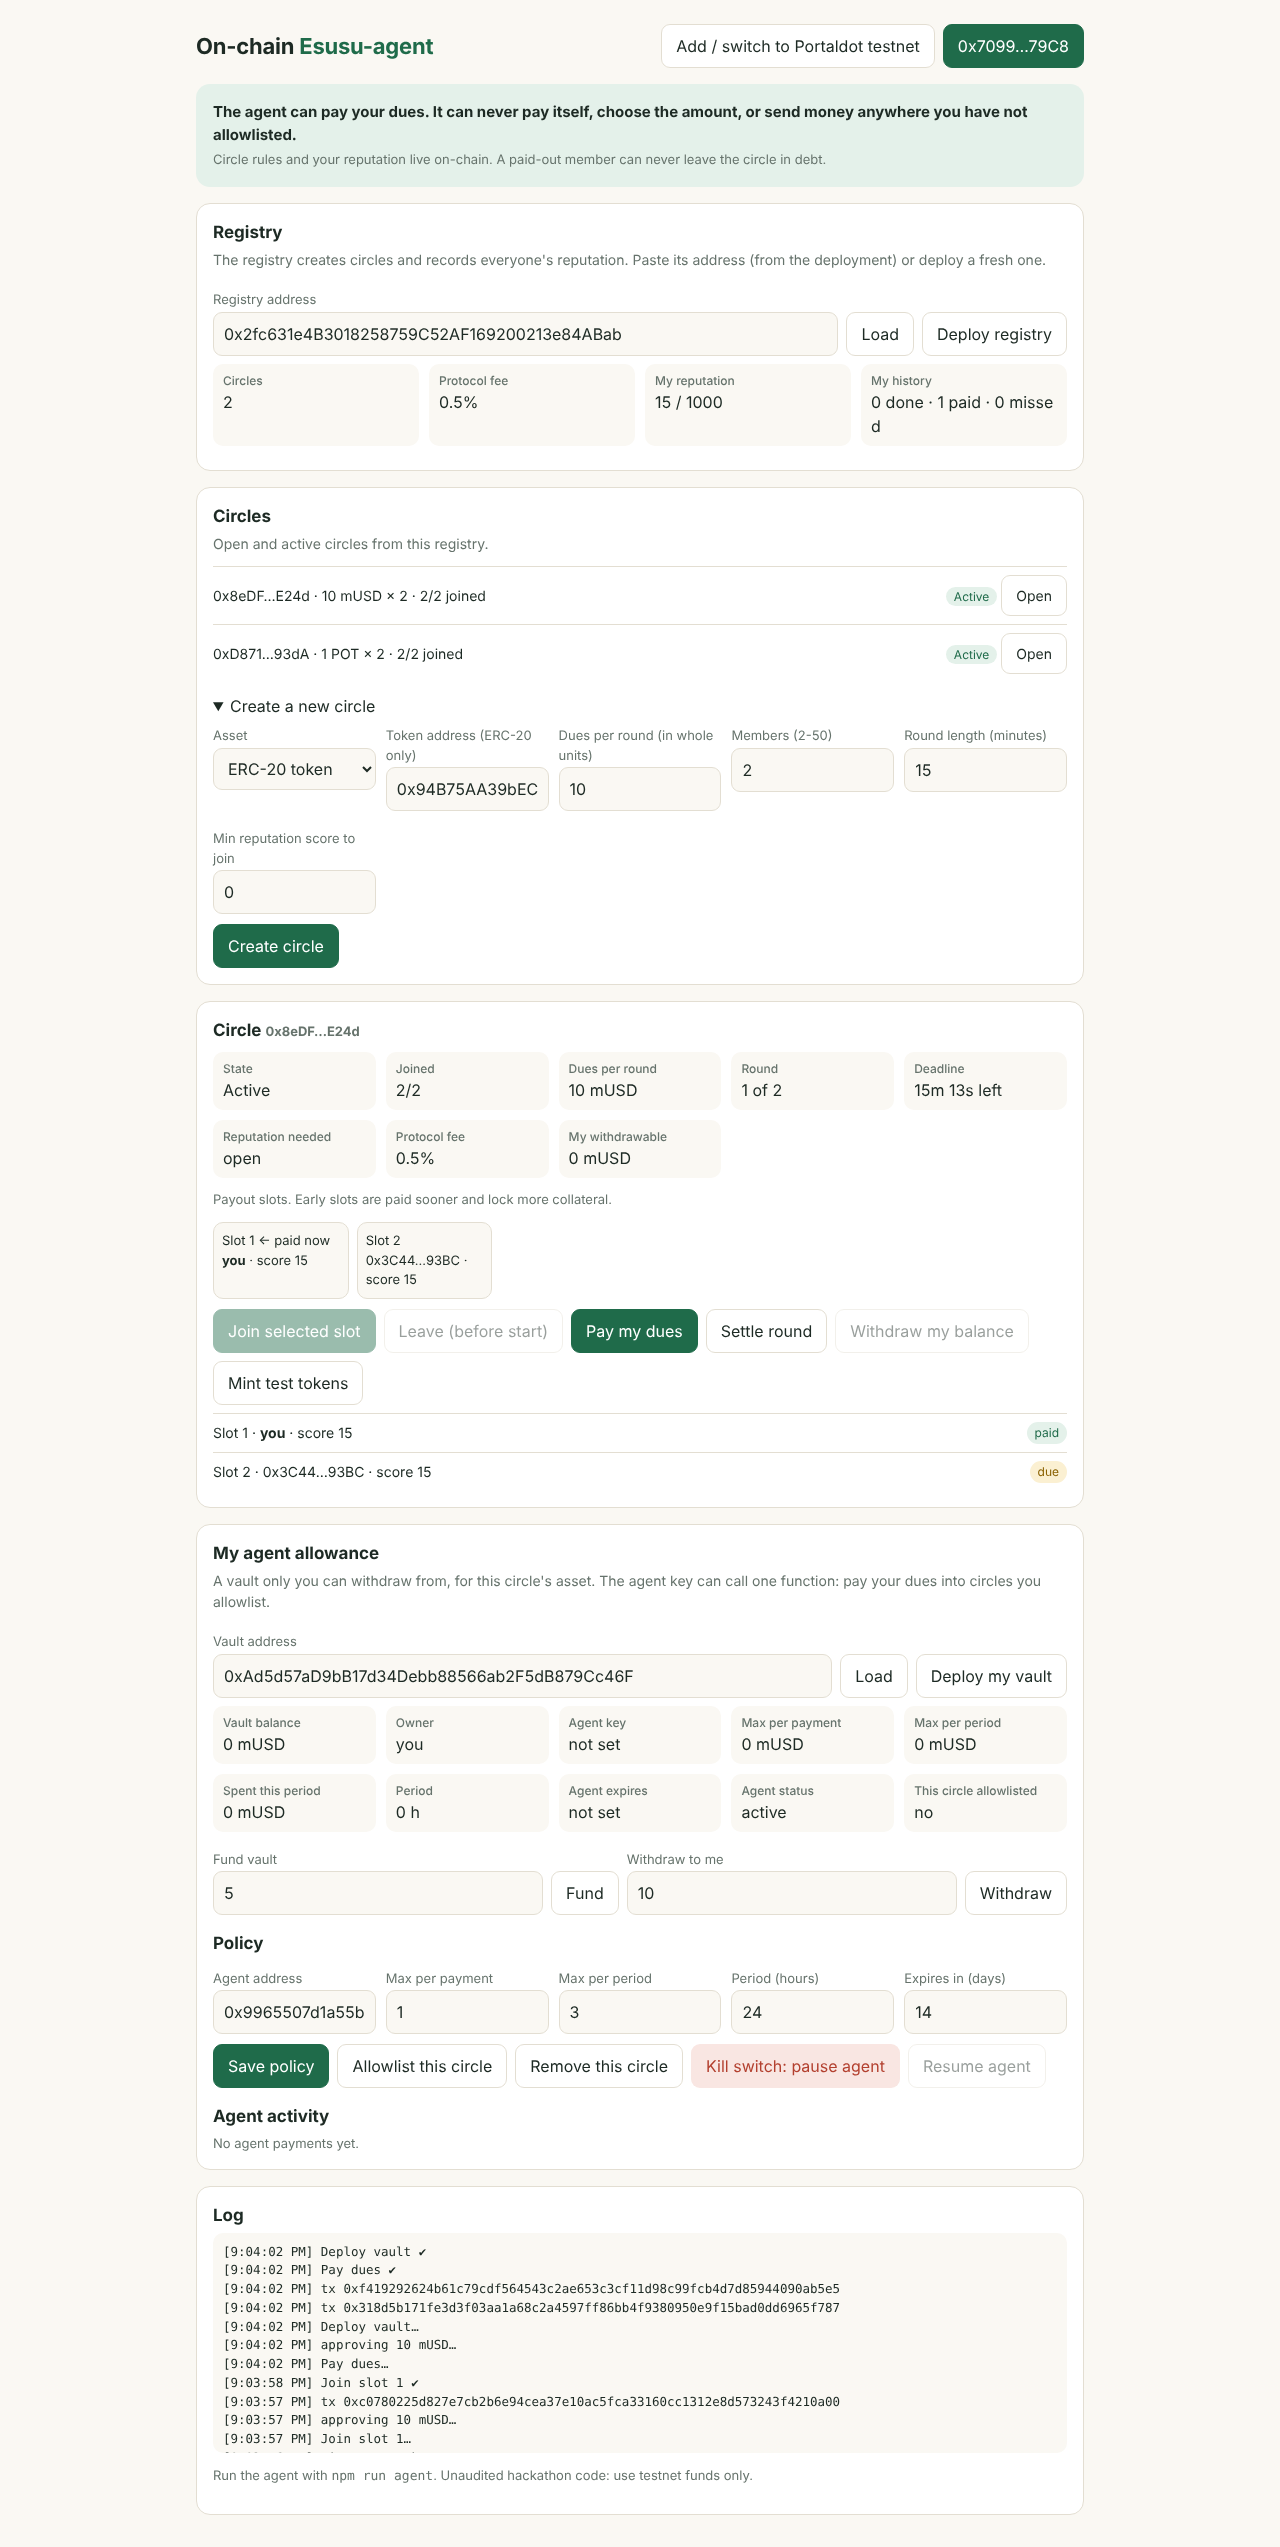
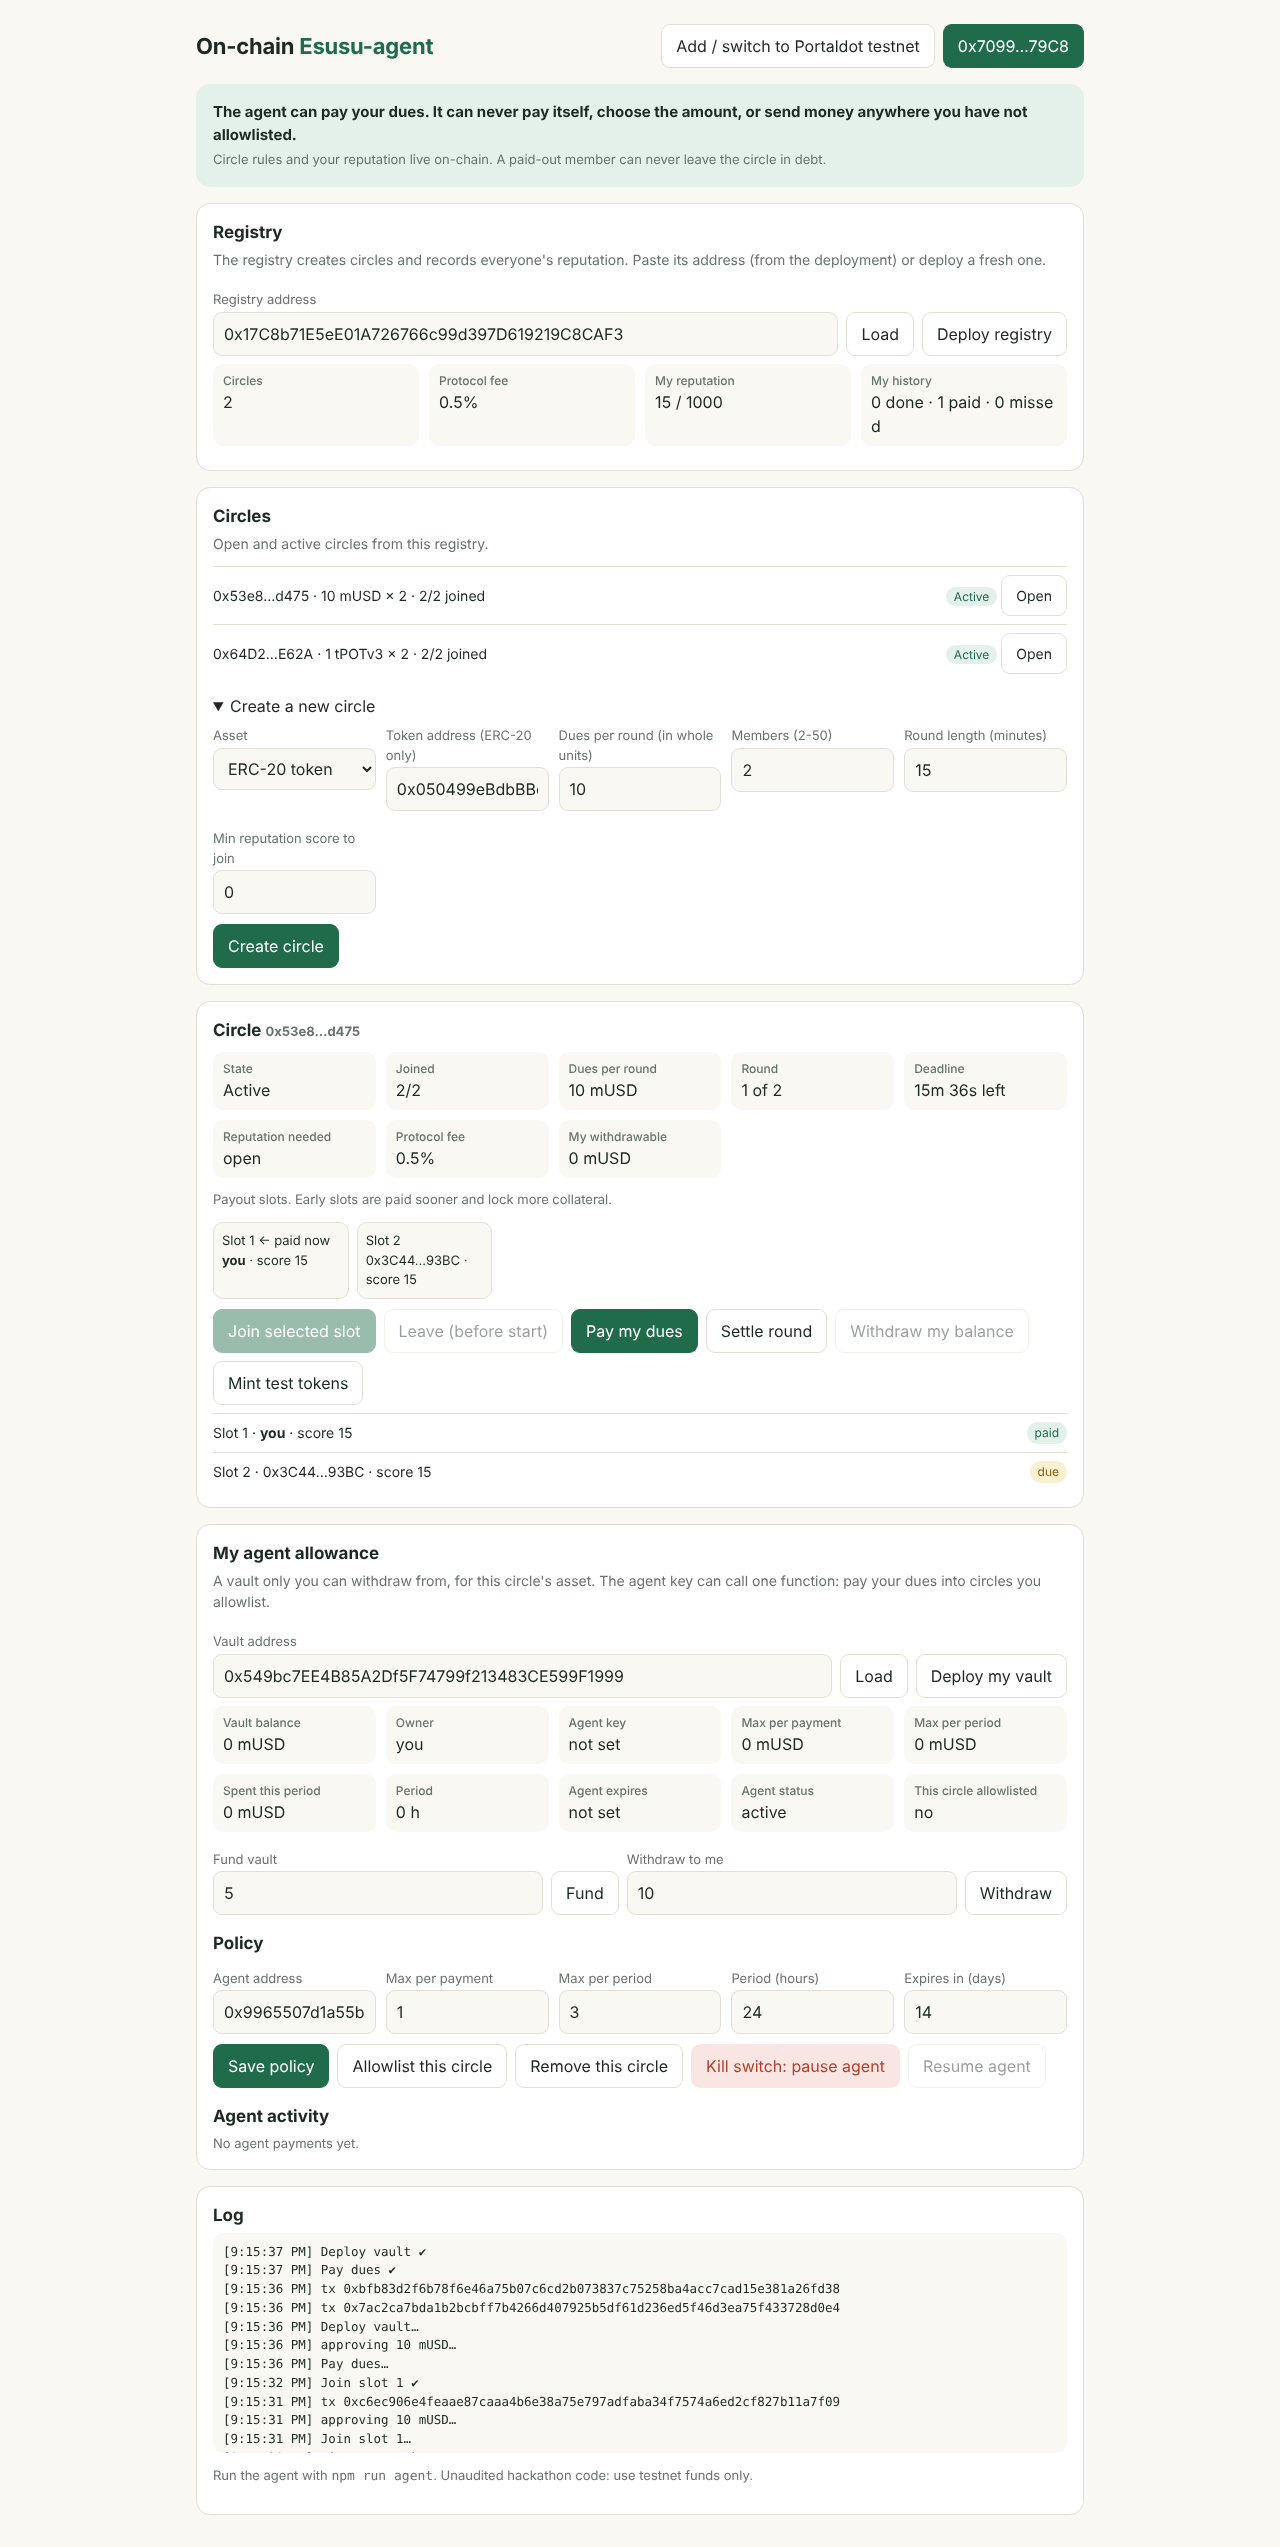
fix(web): use the tPOTv3 symbol and PortaldotV3 network name; update browser test

diff --git a/web/app.js b/web/app.js
@@ -1,7 +1,7 @@
 /* On-chain Esusu-agent dapp v2. No build step. Needs an EVM wallet (e.g. MetaMask). */
 (() => {
-  const CHAIN = { chainId: "0x" + (420420777).toString(16), chainName: "Portaldot V3 Testnet",
-    nativeCurrency: { name: "POT", symbol: "POT", decimals: 18 }, rpcUrls: ["https://test-evm-rpc-v3.portaldot.dev"],
+  const CHAIN = { chainId: "0x" + (420420777).toString(16), chainName: "PortaldotV3 Testnet",
+    nativeCurrency: { name: "tPOTv3", symbol: "tPOTv3", decimals: 18 }, rpcUrls: ["https://test-evm-rpc-v3.portaldot.dev"],
     blockExplorerUrls: ["https://node-console.portaldot.dev/"] };
   const STATES = ["Open (filling)", "Active", "Completed"];
   const ZERO = ethers.ZeroAddress;
@@ -11,7 +11,7 @@
   const esc = (s) => String(s).replace(/[&<>"]/g, (c) => ({ "&": "&amp;", "<": "&lt;", ">": "&gt;", '"': "&quot;" }[c]));
 
   let provider, signer, me, reg, circle, vault, token;
-  let asset = { native: true, symbol: "POT", decimals: 18 };
+  let asset = { native: true, symbol: "tPOTv3", decimals: 18 };
   let selectedSlot = null;
 
   const fmt = (w) => { const s = ethers.formatUnits(w, asset.decimals); return (s.includes(".") ? s.replace(/0+$/, "").replace(/\.$/, "") : s) + " " + asset.symbol; };
@@ -61,7 +61,7 @@
     for (const a of [...addrs].reverse()) {
       const c = new ethers.Contract(a, ESUSU.circle.abi, provider);
       const [st, size, filled, dues, tk, minScore] = await Promise.all([c.state(), c.size(), c.filled(), c.dues(), c.token(), c.minScore()]);
-      const sym = tk === ZERO ? "POT" : await tokenSymbol(tk);
+      const sym = tk === ZERO ? "tPOTv3" : await tokenSymbol(tk);
       const dec = tk === ZERO ? 18 : await tokenDecimals(tk);
       rows.push(`<li><span>${short(a)} · ${ethers.formatUnits(dues, dec).replace(/\.0$/, "")} ${esc(sym)} × ${size} · ${filled}/${size} joined${minScore > 0n ? " · min score " + minScore : ""}</span>
         <span><span class="tag ${Number(st) === 0 ? "wait" : Number(st) === 1 ? "ok" : ""}">${STATES[Number(st)]}</span> <button data-open="${a}">Open</button></span></li>`);
@@ -79,7 +79,7 @@
     circle = new ethers.Contract(addr, ESUSU.circle.abi, signer);
     store.set("esusu.circle", addr); selectedSlot = null;
     const tk = await circle.token();
-    if (tk === ZERO) { asset = { native: true, symbol: "POT", decimals: 18 }; token = null; }
+    if (tk === ZERO) { asset = { native: true, symbol: "tPOTv3", decimals: 18 }; token = null; }
     else { token = new ethers.Contract(tk, ESUSU.erc20, signer); asset = { native: false, symbol: await tokenSymbol(tk), decimals: await tokenDecimals(tk) }; }
     vault = null; $("vaultView").style.display = "none";
     const saved = store.get("esusu.vault." + tk);

diff --git a/scripts/e2e-browser.js b/scripts/e2e-browser.js
@@ -89,7 +89,7 @@ async function waitRpc() {
     await click("#btnSettle"); check("settle succeeds", await waitLog("Settle round ✔"));
     await sleep(1200);
     // the dapp deploys the registry with the connected wallet as treasury, so payout (1.99) + fee (0.01) both land with it
-    check("withdrawable shows the 2 POT pot (1.99 payout + 0.01 fee, same wallet is treasury)", /My withdrawable\s*2 POT/.test((await page.locator("#circleKv").innerText()).replace(/\n/g, " ")), await page.locator("#circleKv").innerText());
+    check("withdrawable shows the 2 tPOTv3 pot (1.99 payout + 0.01 fee, same wallet is treasury)", /My withdrawable\s*2 tPOTv3/.test((await page.locator("#circleKv").innerText()).replace(/\n/g, " ")), await page.locator("#circleKv").innerText());
     await click("#btnWithdraw"); check("withdraw succeeds", await waitLog("Withdraw ✔"));
 
     // vault: deploy, fund, policy, allowlist, kill switch
@@ -101,7 +101,7 @@ async function waitRpc() {
     await click("#btnAllow"); check("circle allowlisted", await waitLog("Allowlist circle ✔"));
     await sleep(1000);
     const vk = await page.locator("#vaultKv").innerText();
-    check("vault panel reflects balance, agent and allowlist", vk.includes("5 POT") && vk.includes("yes"), vk);
+    check("vault panel reflects balance, agent and allowlist", vk.includes("5 tPOTv3") && vk.includes("yes"), vk);
     await click("#btnPause"); check("kill switch pauses the agent", await waitLog("Pause agent ✔"));
     await sleep(1000);
     check("vault panel shows PAUSED", (await page.locator("#vaultKv").innerText()).includes("PAUSED"));

diff --git a/web/index.html b/web/index.html
@@ -59,7 +59,7 @@
     <ul class="list" id="circleList"></ul>
     <details style="margin-top:12px"><summary>Create a new circle</summary>
       <div class="grid">
-        <div><label>Asset</label><select id="cAsset"><option value="native">Native POT</option><option value="token">ERC-20 token</option></select></div>
+        <div><label>Asset</label><select id="cAsset"><option value="native">Native tPOTv3 (gas token)</option><option value="token">ERC-20 token</option></select></div>
         <div><label>Token address (ERC-20 only)</label><input id="cToken" placeholder="0x..."></div>
         <div><label>Dues per round (in whole units)</label><input id="cDues" value="10"></div>
         <div><label>Members (2-50)</label><input id="cSize" value="3"></div>
